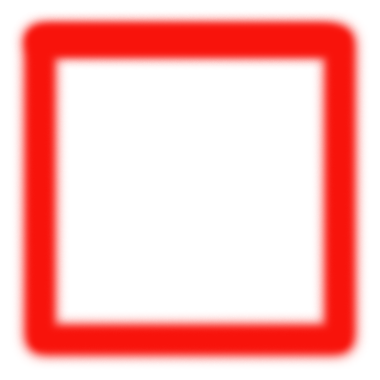
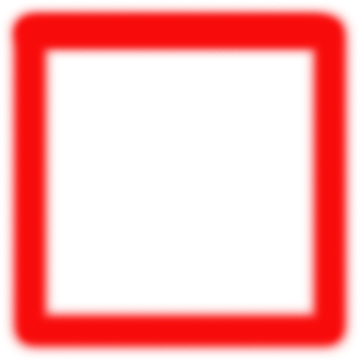
fixed r-glow size

diff --git a/Two-Game.py b/Two-Game.py
@@ -370,7 +370,7 @@ def play_loop():
 def show_glow(green_pos, red_pos):
     # gets the green and red positions and blits screen
     print('show_glow has green/red' + str(green_pos) + '/' + str(red_pos))
-    start_x = 30
+    start_x = 24
     glow_posx = [start_x, start_x + 380, start_x + 760, start_x + 1140, start_x + 1520]
     glow_posy = 570
     # display green alway
